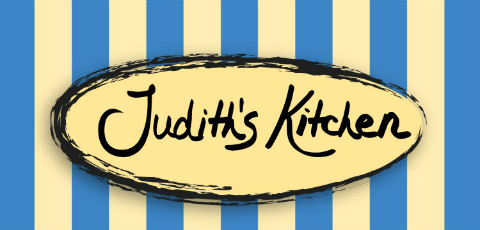
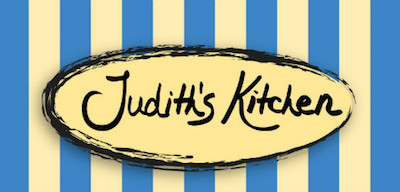
tweaking mobile stylesheet

diff --git a/public/assets/css/main-small-device.css b/public/assets/css/main-small-device.css
@@ -278,7 +278,7 @@ a:after {
 	background-position: center center;
 	/* min-height: 550px; */
 	min-height: 130px;
-	width: 90%;
+	width: 100%;
 	
     -webkit-background-size: 100%;
     -moz-background-size: 100%;
